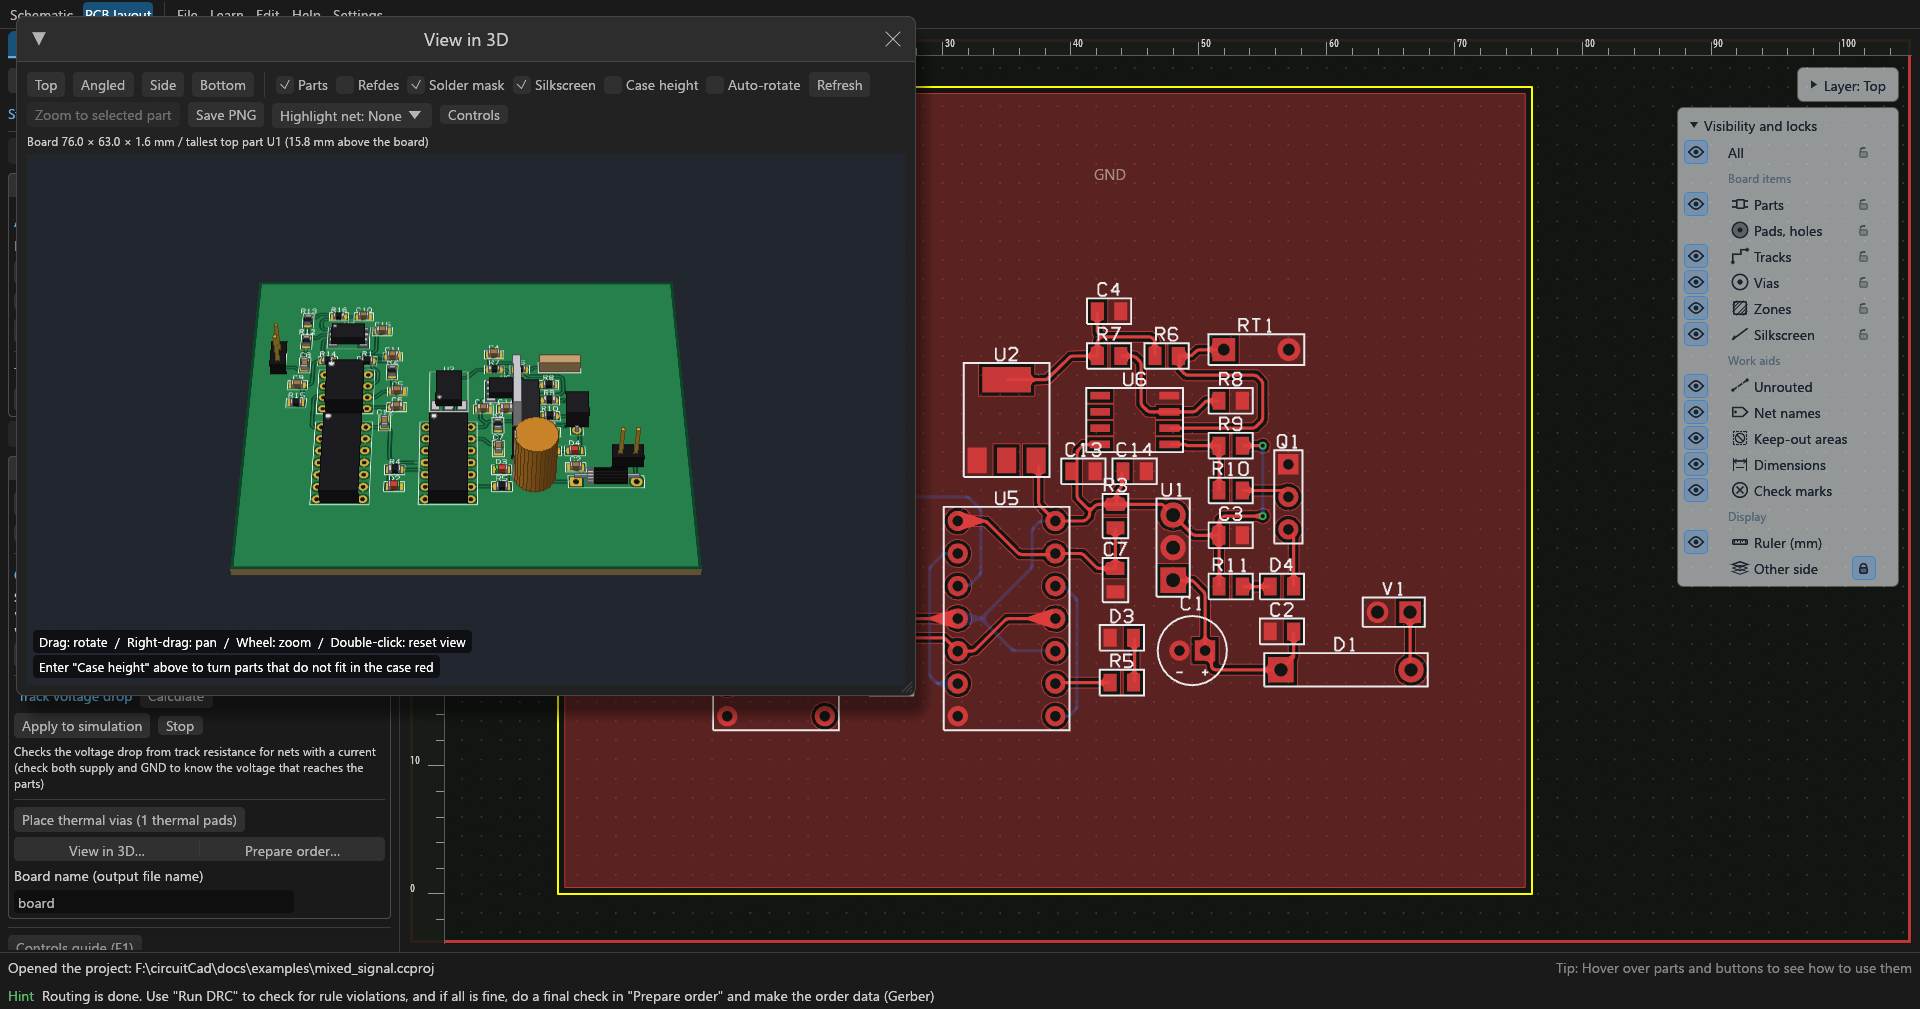
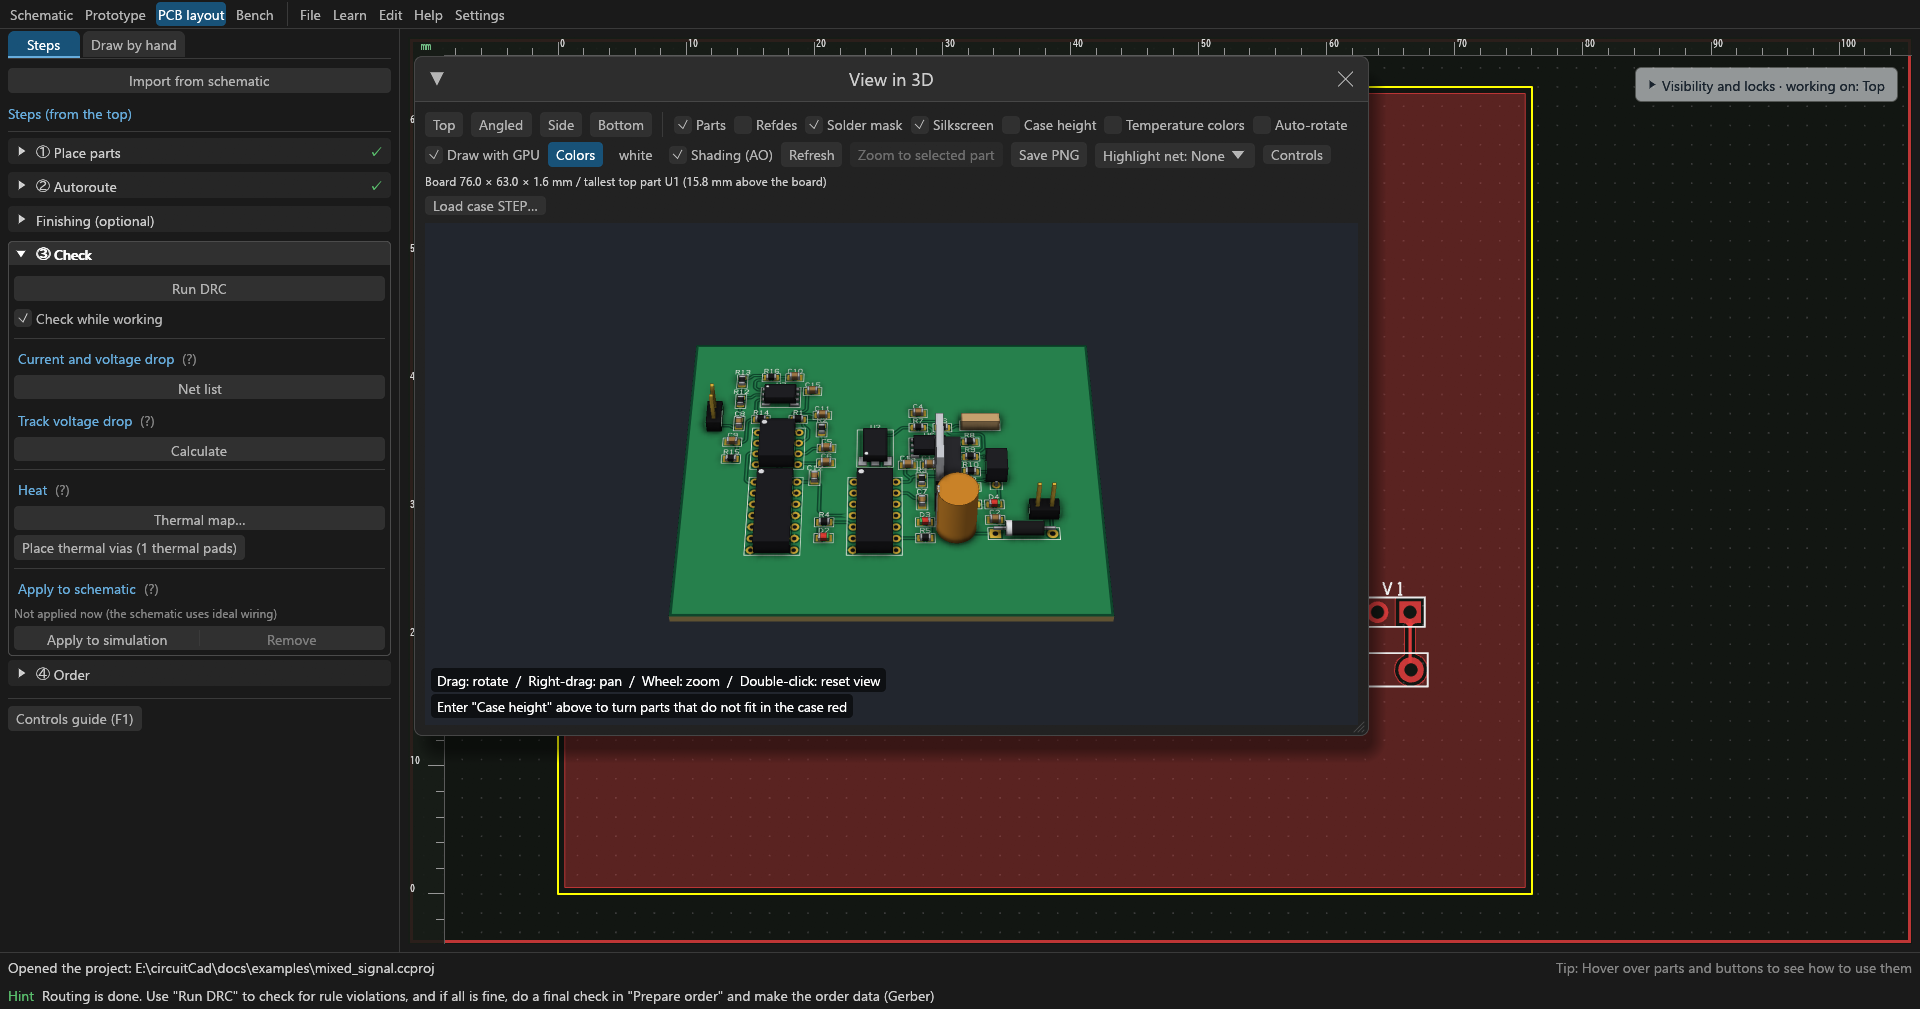
alpha.12 の準備: リリースノートと README の画像を撮り直す (試作・実機のタブを足す)

diff --git a/docs/release-notes/v0.1.0-alpha.12.md b/docs/release-notes/v0.1.0-alpha.12.md
@@ -1,0 +1,65 @@
+## v0.1.0-alpha.12
+
+> **English:** the screen now has four tabs that follow a real build: **Schematic → Prototype → PCB layout → Bench**. The new **Prototype** tab lays your schematic out on a breadboard; switch the power on and the circuit runs as it is plugged in (LEDs light, buttons click, a potentiometer turns, a buzzer sounds, and parts over their rating get scorched). The new **Bench** tab walks through assembling the board you received, the first power-on with a current limit, measuring, pass/fail and repair. Also new: making part models from a datasheet (tables, graphs, scanned pages), many real parts from Nichicon, Rubycon, Bourns, Kingbright, Infineon, Vishay and others, heat analysis on the board (heat map, heatsink and copper area, a closed case), filter design, Nyquist/Nichols and root locus, CMRR, yield and Cpk, battery life, a digital circuit you can run step by step, several boards in one project, and a GPU 3D view with STEP export. The English UI covers the new screens too. Still an alpha: tested mainly on Windows, and no board made with it has been manufactured yet.
+
+アルファ版です。動作確認は Windows が中心で、基板の発注の実績はまだありません (README の「現在の状態と既知の制限」を参照)。
+
+今回は、**画面を 4 つのタブ (回路図・試作・基板・実機) にしたこと**、**ブレッドボードで動かす「試作」**、**届いた基板を動かす「実機」**、**データシートから部品を作る道具**、**熱の解析**が主な変更です。
+
+### 4 つのタブ
+- 作る順に、**回路図 → 試作 → 基板 → 実機** のタブが並びます。
+
+### 試作 (ブレッドボード)
+- 回路図の部品を、ブレッドボードのどの穴に差すかを自動で並べます。つながっている穴が光り、部品やジャンパー線をドラッグで差し替えられます。回路図と違う差し方 (ショート・つながっていない足) は赤い丸と一覧で知らせます。
+- **電源を入れると回路が動きます**。計算するのはブレッドボードに差したとおりの回路です。LED は流れる電流で光り、スイッチと押しボタンはクリックで切り替わります。
+- 電源の電圧・周りの温度・**ボリューム (可変抵抗)** を、動かしたままつまみで変えられます。ボリュームは絵の上でドラッグやホイールでも回せます。
+- 定格を超えた部品は**焦げた印**と理由が出て、回路の中でも壊れます (焦げた LED は消える、先に切れた抵抗が LED を守る)。
+- **ブザー**は鳴っている音をスピーカーから出します。テスター (直流の電圧) とオシロ (電圧の時間の変化) の道具もあります。
+
+### 実機
+- 届いた基板を、**組み立て → 電源投入 → 測る → 合否 → 修理** の手順で進めます。基板の配置図で、手順ごとに付ける部品や測る点が光ります。
+- **最初の電源投入のガイド**: 回路図から「正常なら流れる電流」の範囲と、電流制限に入れる値を出します。測った電流を入れると、多い・少ないときに疑う所を並べます。
+- **組み立て表**: 背の低い部品からのはんだ付けの順と、向きの印 (1 番ピン・カソード・+) を、印刷用の SVG にします。
+
+### 学ぶ
+- **デジタル回路を動かしながら見る**: スイッチをクリックして 0 と 1 を切り替え、High / Low の色と真理値表で確かめます。1 クロック・1 イベントずつ進めたり、ゲートの遅れを引き延ばしてグリッチを見たりできます。
+- 押しボタン・スライドスイッチ・電流源・DC モーターの部品と、修理の学習パス (レッスン 4 本と基板の修理の練習) を足しました。
+- 過渡解析の波形に**デジタル表示** (ロジックアナライザのような High / Low の帯とバス) を足しました。
+
+### 解析
+- **ナイキスト線図・ニコルス線図**と**根軌跡** (部品の値を変えたときの極の動き)。
+- **フィルタの設計**: バターワース・ベッセル・チェビシェフのローパス・ハイパス・バンドパスの部品を決め、回路図に置いて AC 解析で目標と比べます。
+- **同相除去比 (CMRR)**、**電源除去比 (PSRR)**、**感度** (部品を 1 つずつ ±1 % 動かす)。
+- ばらつき解析の結果を範囲と照らす**合格率と Cpk**。
+- **電池の持ち時間**: 過渡解析の平均の電流と、止まる残量から、何時間・何日もつかを出します。
+- 動かない回路で測った電圧から原因を探す**故障診断**。
+- シミュレータを速くしました (大きい回路の過渡解析、発振回路の切り替わり)。
+
+### 熱
+- 自己発熱をダイオード・LED・トランジスタ・IC にも広げ、**θjc と放熱板**を分けて計算します。周りの温度を振る最悪ケース、短いパルスの温度 (過渡熱抵抗の段) も出せます。
+- **値の決め方の「放熱」**: 損失から、要る基板の銅の面積か放熱板の熱抵抗を出します。
+- **基板の熱の地図**: 基板を升目に分けて、銅・ビア・対流・放射から温度を解き、回路図の自己発熱に反映します。時間の変化、配線の発熱、3D ビューの「温度の色」、閉じたケースに入れたときの温度上昇もあります。
+
+### 部品とデータシート
+- **データシートから部品を作る**: 「データシートから下書き」でパッケージ・ピンの表・寸法表・推奨パッド・絶対最大定格・熱の値を読み、「グラフから読む」で図の曲線をたどります。画像だけの PDF は Windows の文字認識で読みます。
+- **かんたん作成**を MOSFET・トランジスタ・ダーリントン・フォトカプラ・フォトダイオード・オペアンプ・3 端子レギュレータ・NTC サーミスタ・水晶・TVS・論理式のロジック IC に広げました。電圧違いの型番もまとめて作れます。
+- 同梱の部品のモデルを、データシートから作り直しました (どのデータシートから作ったかと、表の値とのずれを画面で見られます)。
+- メーカーの実物の部品を足しました: チップ抵抗 (KOA・ROHM・Vishay・Yageo・Panasonic)、積層セラミック (Murata)、電解コンデンサ (Panasonic・Nichicon・Rubycon)、パワーインダクタ (Bourns)、LED (Kingbright)、MOSFET (Infineon)、ショットキー (Vishay)、コンパレータ など。値違いはシリーズとしてまとめ、値はドラムで選びます。
+- ピンの電気的な種類 (入力・出力・電源・NC) を部品に持たせ、ERC が出力どうしのつながりや、何も駆動しない入力を見つけます。推奨の周辺部品 (入力のコンデンサなど) も置けます。
+
+### 基板と 3D
+- **複数の基板**を 1 つのプロジェクトに入れ、基板どうしのつなぎを照合し、3D で重ね、全体をシミュレーションできます。
+- 3D ビューを **GPU で描く**ようにしました (なめらかな面、陰影)。**STEP の書き出し**は曲面と部品ごとの組み立てになりました。ケースの STEP を重ねて、ぶつかる部品を出します。
+- STEP の無い部品の 3D の形を、無料の CAD「SolidCraft」で作れます (ひな形・データシートの外形図の下絵)。
+- 配線のインピーダンスを**電界ソルバ**で求めます。「ネットの一覧」の窓に電流と推奨の線幅を出します。
+- LTspice の回路図 (`.asc`) を開けます。
+
+### 英語の画面
+- 新しい画面 (試作・実機・かんたん作成・熱・フィルタ など) も英語で出ます。英訳は日本語の原文から AI (Claude) が訳したものです。おかしな言い回しがあれば、Issue で教えてください。
+
+### 既知の制限
+- 画面 (UI) は、改善の途中です。分かりにくかった所を教えてもらえると助かります。
+- 動作確認は Windows が中心です。Linux は WSL2 で確かめただけで、macOS の配布はまだありません。データシートの絵の文字認識は Windows だけです。
+- 基板の発注の実績はありません。発注前に、発注先の仕様と発注前チェックを必ず確かめてください。
+- 試作のタブのブレッドボードは、穴の名前 (`上+1` など) が英語の画面でも日本語のままです。
+- メーカーの SPICE モデルは再配布できないため同梱していません。自分でダウンロードしたものを使ってください。

diff --git a/README.md b/README.md
@@ -62,6 +62,10 @@
 - **部品ライブラリ**: 140 部品以上 (記号・パッケージ・シミュレーションモデル。電源 IC、センサ、電池、ADC、低リークのアナログスイッチなども)。ランドパターンをデータシートで確かめていない部品 (`land_unverified`) は、発注前チェックが注意します。JSON で追加できるほか、KiCad のシンボルとフットプリントも取り込めます (`docs/part-format.md`)
 - **精度の確認 (開発用)**: シミュレーションは、オープンソースの ngspice と比べて確かめています。`circuitCad --xcheck docs/examples` で、同梱サンプルの動作点 (電圧と電流) が ngspice と一致するか調べられます (`--tran` で過渡波形。ngspice が別に必要です)。結果と既知の差は [docs/code-notes/app/basics.md](docs/code-notes/app/basics.md) にあります
 
+| 試作 (ブレッドボードで動かす) | 実機 (届いた基板の電源投入) |
+|---|---|
+| ![回路図の部品をブレッドボードに差して電源を入れ、LED が光っている試作のタブ](docs/images/prototype.png) | ![最初の電源投入の手順と、正常なら流れる電流の範囲を出した実機のタブ](docs/images/bench.png) |
+
 | 波形 (過渡解析) | ボード線図 (AC 解析) |
 |---|---|
 | ![NE555 の発振回路の過渡解析の波形](docs/images/waveform.png) | ![AC 解析のボード線図](docs/images/bode.png) |

diff --git a/README.en.md b/README.en.md
@@ -45,6 +45,10 @@ A screen recording (about 75 s, Japanese UI): drawing a schematic, simulating it
 - **Multi-sheet schematics,** reusable snippets, copy and paste, and wires that follow a part you drag.
 - **Free and open source,** under `AGPL-3.0-or-later` (if you distribute a modified version, or let others use it as a network service, publish its source under the same license).
 
+| Prototype (run it on a breadboard) | Bench (first power-on of the board you received) |
+|---|---|
+| ![The Prototype tab: the schematic's parts plugged into a breadboard with the power on and the LED lit](docs/images/en/prototype.png) | ![The Bench tab: the first power-on steps and the normal current range from the schematic](docs/images/en/bench.png) |
+
 | Transient waveform | Bode plot (AC analysis) |
 |---|---|
 | ![Transient waveform of a 555 oscillator](docs/images/en/waveform.png) | ![AC analysis Bode plot](docs/images/en/bode.png) |
